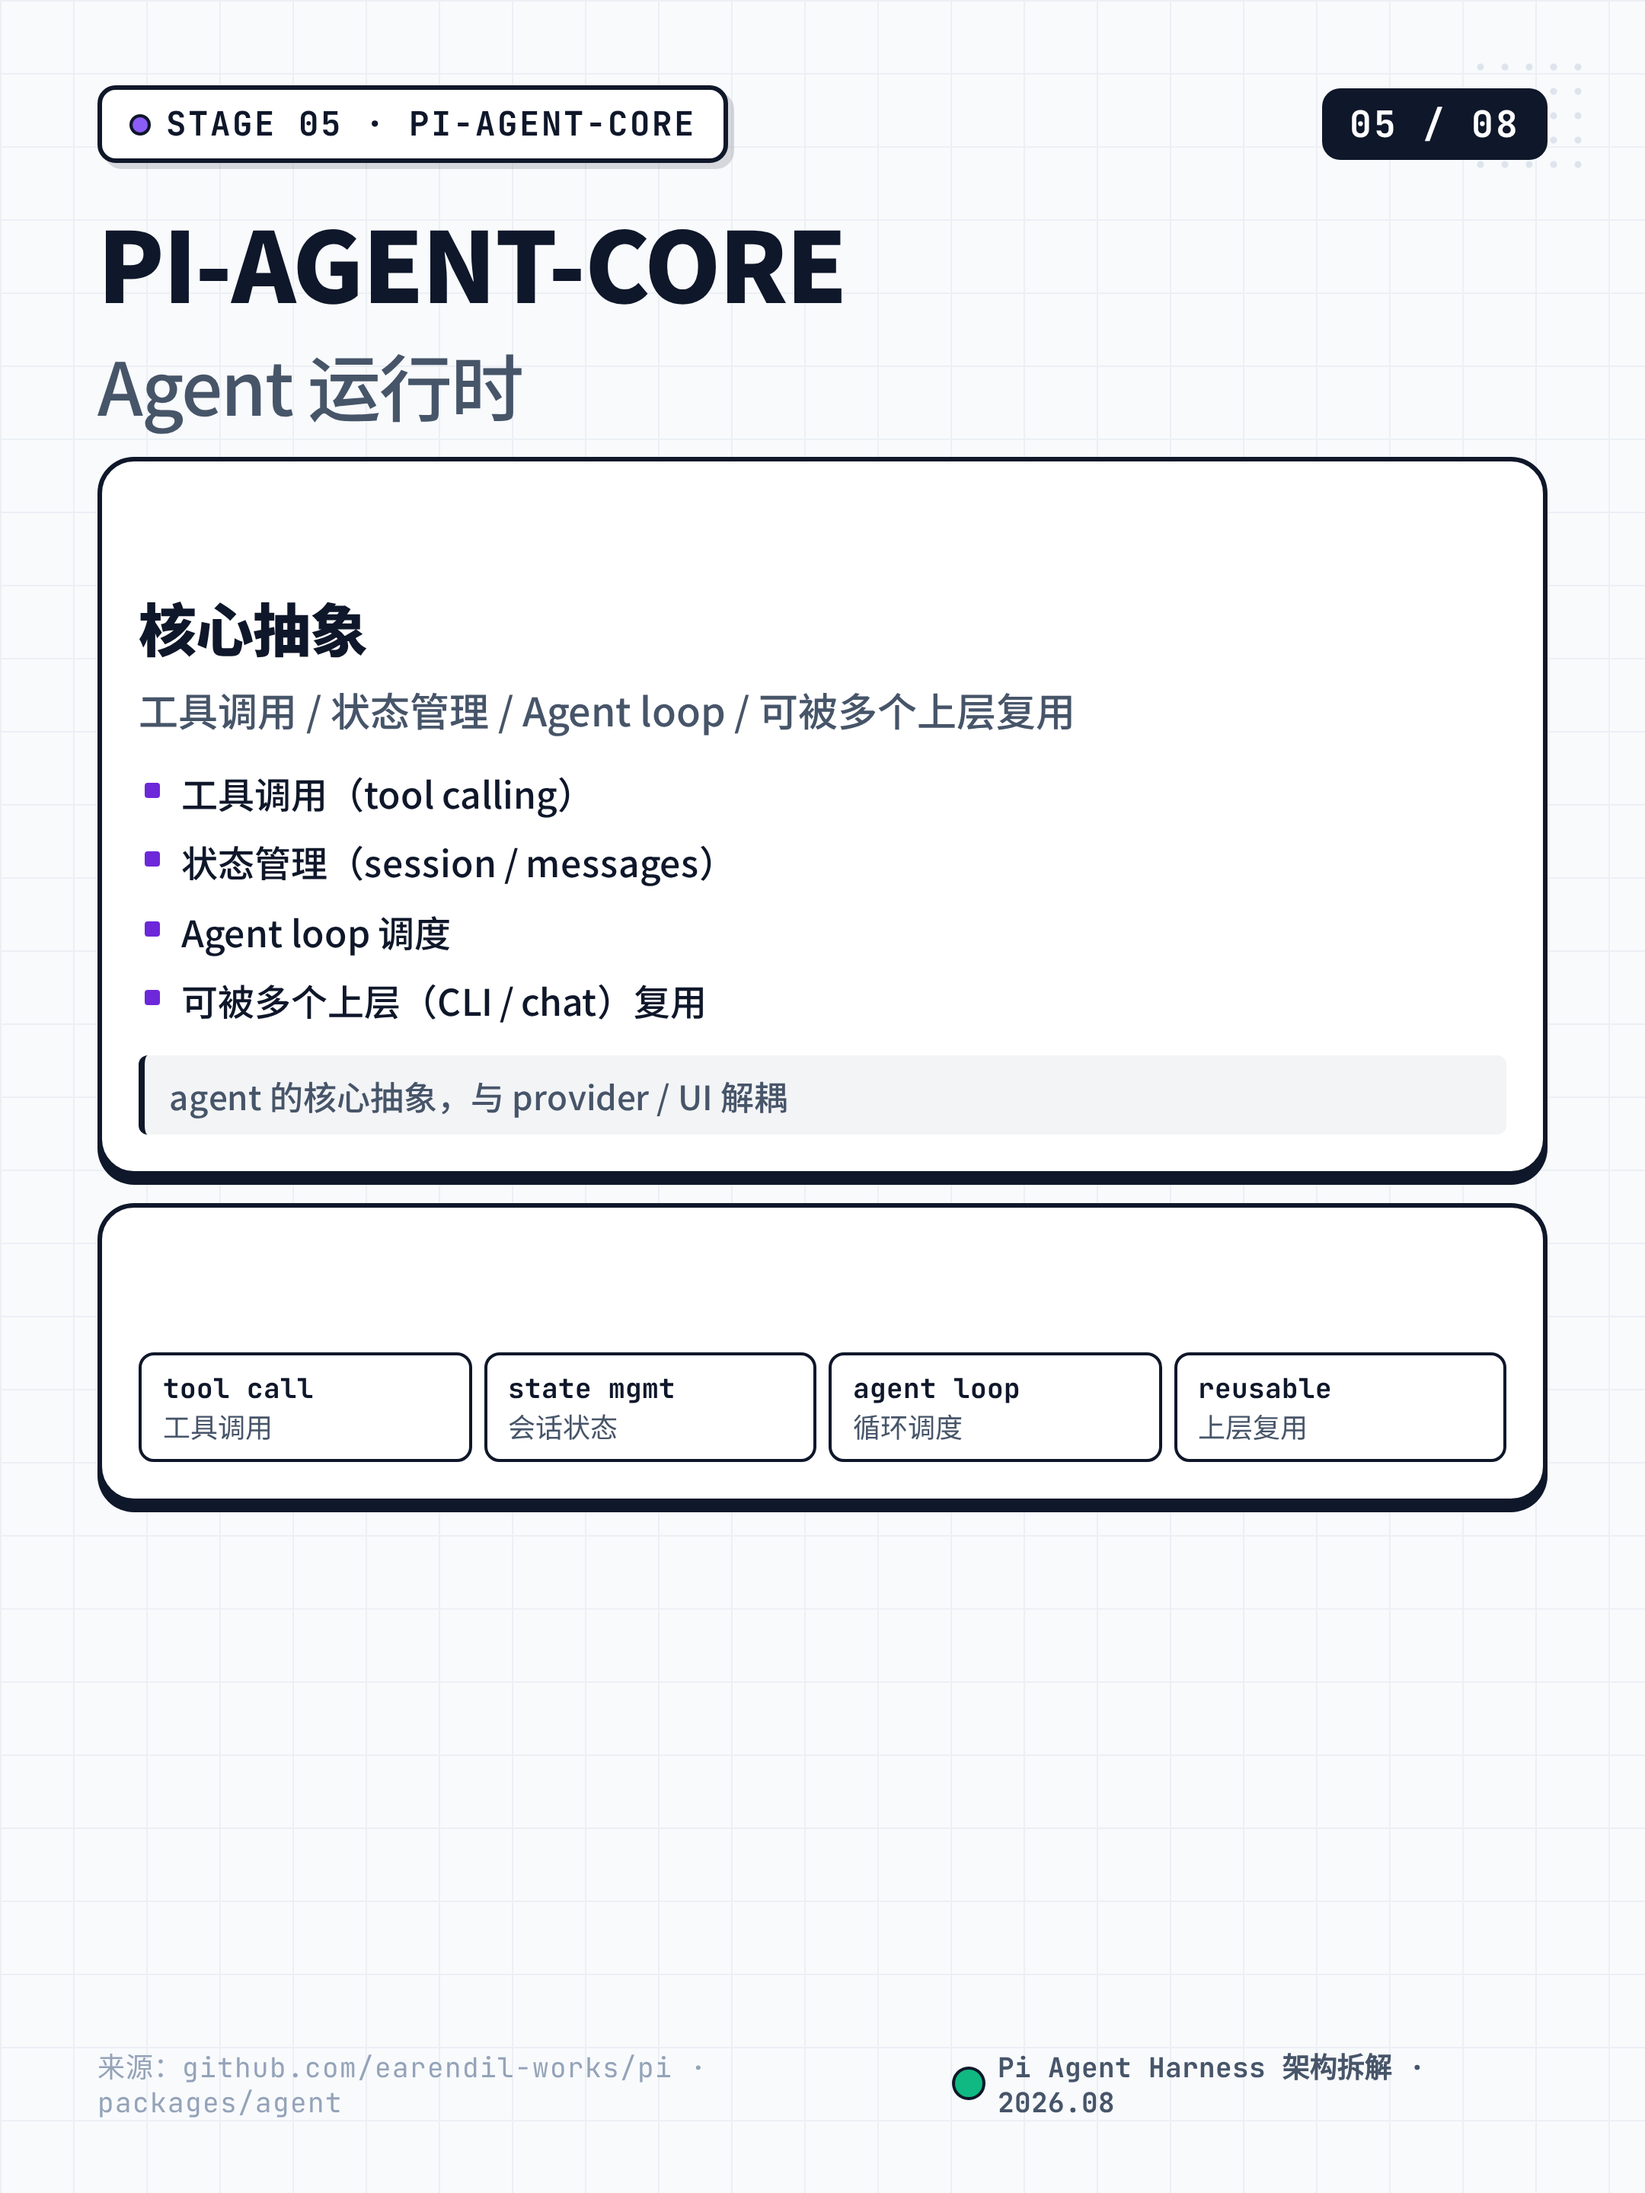
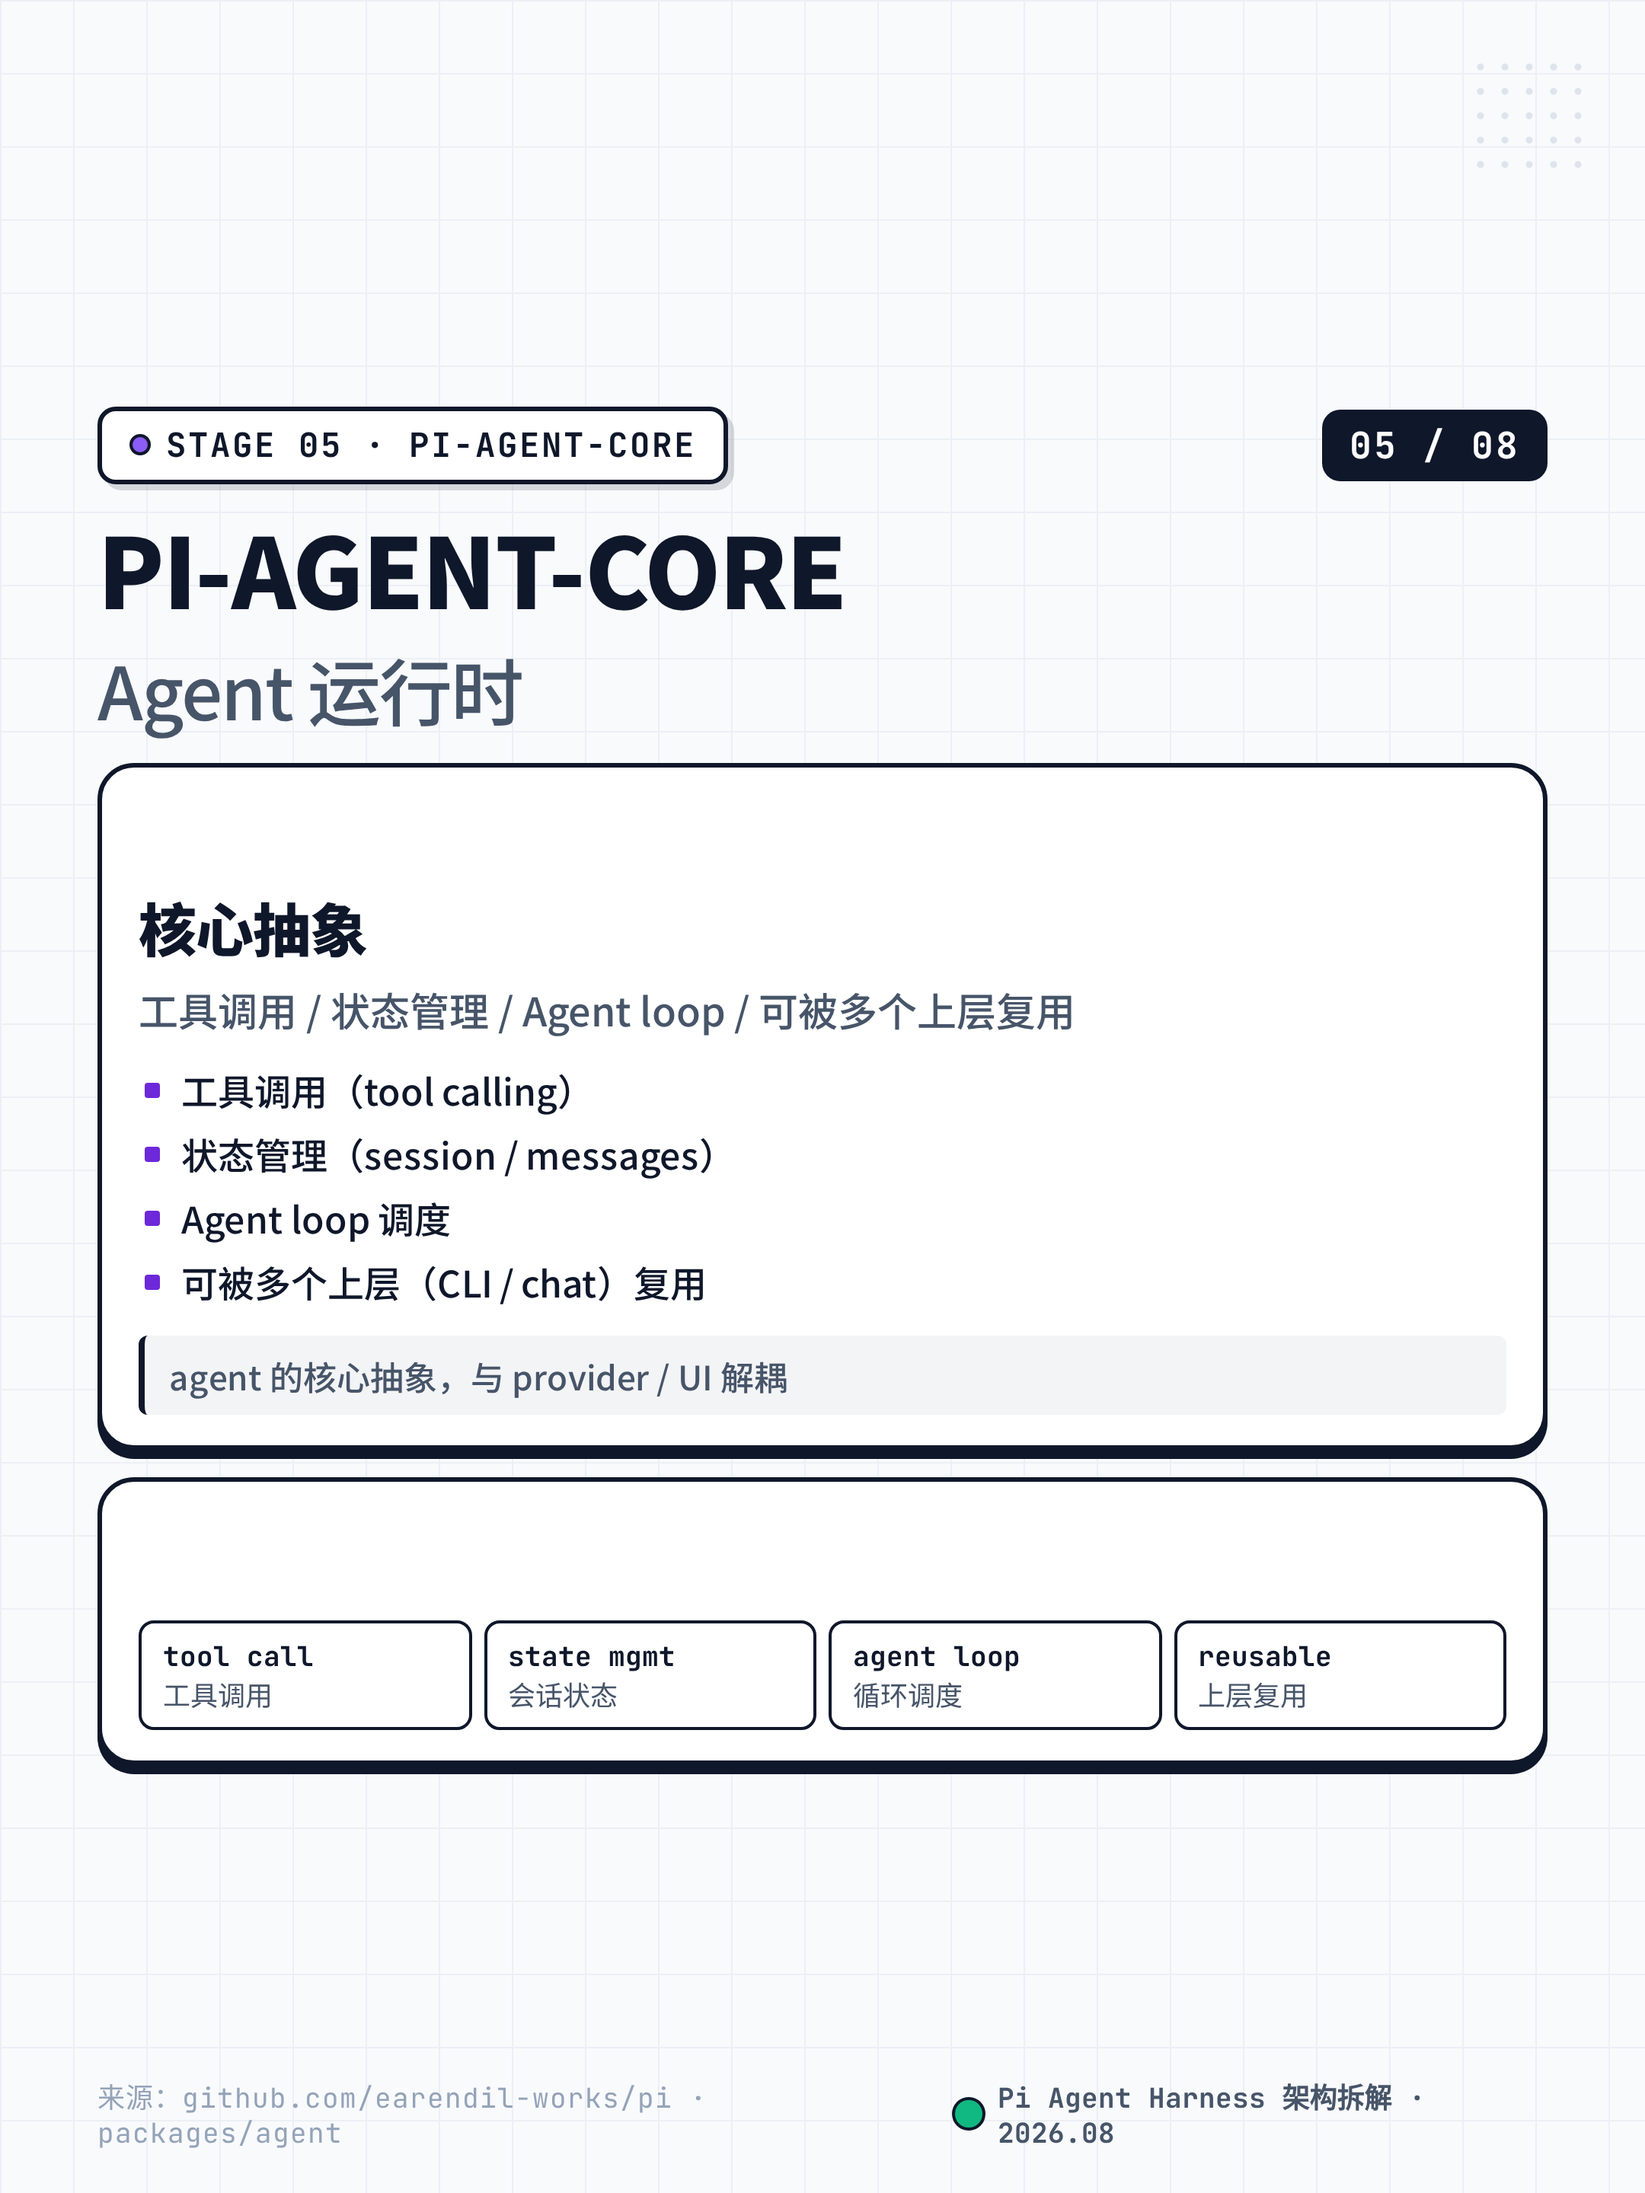
feat(greenbook): 排版紧凑 + P8 改造为「使用三件套」+ README 加快速上手
## 用户反馈（2026-08-07）
- 排版空白太多 → 紧凑 + 居中
- 适当居中 → flex center
- 加入使用方法 → P8 改造 + README 加快速上手

## 改动 1 · base.css 排版紧凑
- .card 加 display: flex + flex-direction: column + justify-content: center
- padding: 56px 64px → 32px 64px
- header margin-bottom: 28px → 18px
- section-card margin-bottom: 18px → 14px
- 整体留白上下平衡，章节卡不再顶部堆叠

## 改动 2 · P8 改造为「使用三件套」卡（OCR Review + pi 两实例）
- 原 P8：讲被拆解项目自己的输出三件套（评审结果 / 失败与预算 / 完整记录 / 三件套各服务一个角色）
- 新 P8：讲「分节提取协议 · 截断根因解药」+ 3 步使用（① 复制模板 / ② 跑协议 / ③ 渲染推送）
- 这样整套 8 张图天然包含「教会读者怎么复用本模板」的能力
- 两个实例同步改造

## 改动 3 · README 精简 + 加居中「快速上手」块
- 新增居中显示的「🚀 快速上手（3 步）」块，3 步完事
- 精简表格、代码块之间的冗余空白行
- 加「8 卡中第 8 张的特殊设计 · 使用三件套」章节
- 「复用沉淀」从 v1 → v2 记录这次改动

## 改动 4 · 清理 card_template_*.png
- render.py 会扫所有 .html，骨架也被渲染 → 无意义产物
- 全部删掉，只保留 card_1~8.png 填充好的实例

## 视觉确认
- OCR Review P3/P5：上下留白平衡，不再堆顶
- OCR Review P8：使用三件套 · 3 步拆任意架构图
- pi P3/P5/P8：同 OCR Review 风格一致

## 文件清单
- 20 files changed, 168 insertions(+), 197 deletions(-)

diff --git a/greenbook-creator/templates/architecture-ocr-greenbook/examples/pi/html/card_8.html b/greenbook-creator/templates/architecture-ocr-greenbook/examples/pi/html/card_8.html
@@ -2,7 +2,7 @@
 <html lang="zh-CN">
 <head>
   <meta charset="UTF-8">
-  <title>Card 8 · DEPLOY TRIO + 收束 · pi</title>
+  <title>Card 8 · 使用三件套 + 收束 · pi</title>
   <link rel="stylesheet" href="../../../html/base.css">
 </head>
 <body>
@@ -10,54 +10,55 @@
     <div class="header">
       <div class="label-tag cyan">
         <span class="dot"></span>
-        <span>STAGE 08 · DEPLOY TRIO</span>
+        <span>STAGE 08 · 使用三件套</span>
       </div>
       <div class="page-num">08 / 08</div>
     </div>
 
-    <h1 class="title-sm">DEPLOY TRIO<br>
-      <span style="font-size:48px;color:var(--ink-2);font-weight:500;">分发三件套</span>
+    <h1 class="title-sm">使用三件套<br>
+      <span style="font-size:48px;color:var(--ink-2);font-weight:500;">3 步拆任意项目文档</span>
     </h1>
 
-    <div class="section-card cyan" style="margin-bottom: 18px;">
-      <div class="band"><span class="num">01</span>KEY POINTS · 关键点</div>
+    <div class="section-card cyan" style="margin-bottom: 14px;">
+      <div class="band"><span class="num">01</span>分节提取协议 · 截断根因解药</div>
       <div class="body">
-        <h3>三件套各服务一个阶段</h3>
-        <div class="zh">开发 → 离线构建 → 公开 session</div>
+        <h3>永不截断 · 可重试</h3>
+        <div class="zh">README + AGENTS.md 也能拆，无截断</div>
         <ul class="bullet-list">
-          <li>安装：npm i -g 或 ./pi-test.sh</li>
-          <li>构建：npm run build:offline（离线模型数据）</li>
-          <li>分享：pi-share-hf → Hugging Face</li>
+          <li>Stage 1 · 按章节 / 标题 / 代码块切分文档（≤12 段）</li>
+          <li>Stage 2 · 逐段抽取要点（每段 ≤300 tokens）</li>
+          <li>Stage 3 · 校验字段长度 / 数量，缺哪个只重跑那段</li>
+          <li>Stage 4 · 合并为 YAML 数据文件</li>
         </ul>
-        <div class="details">三件套各覆盖一个阶段：开发 → 离线构建 → 公开 session</div>
+        <div class="details">6 段总和 ≤ 1800 tokens，远低于模型上限，永不截断</div>
       </div>
     </div>
 
-    <div style="margin-bottom: 16px;">
-      <div class="mono" style="margin-bottom: 10px;">DEPLOY TRIO · 分发三件套</div>
+    <div style="margin-bottom: 14px;">
+      <div class="mono" style="margin-bottom: 10px;">使用三件套 · 3 步复制本模板</div>
       <div class="trio">
         <div class="cell blue">
-          <div class="lab">安装</div>
-          <div class="sub">npm i -g / pi-test.sh</div>
+          <div class="lab">① 复制模板</div>
+          <div class="sub">cp -r 骨架 → 改 YAML</div>
         </div>
         <div class="cell orange">
-          <div class="lab">构建</div>
-          <div class="sub">build:offline + standalone</div>
+          <div class="lab">② 跑协议</div>
+          <div class="sub">Stage 1 → Stage 2 → 校验</div>
         </div>
         <div class="cell purple">
-          <div class="lab">分享</div>
-          <div class="sub">pi-share-hf → HuggingFace</div>
+          <div class="lab">③ 渲染推送</div>
+          <div class="sub">render.py → QQ bot</div>
         </div>
       </div>
     </div>
 
     <div class="closing">
       <span class="dot"></span>
-      <span class="text"><b>5 包 monorepo · 终端到模型全栈</b> · 模板验证：README + AGENTS.md 也能拆，无截断</span>
+      <span class="text"><b>5 包 monorepo · 终端到模型全栈</b> · 本卡为「使用方法」卡，替换 YAML + HTML 即可复用本模板拆任意项目</span>
     </div>
 
     <div class="footer">
-      <div class="source">来源：github.com/earendil-works/pi · DEPLOY TRIO</div>
+      <div class="source">来源：github.com/earendil-works/pi · 使用三件套</div>
       <div class="label"><span class="icon"></span>Pi Agent Harness 架构拆解 · 2026.08</div>
     </div>
   </div>

diff --git a/greenbook-creator/templates/architecture-ocr-greenbook/html/card_8.html b/greenbook-creator/templates/architecture-ocr-greenbook/html/card_8.html
@@ -2,7 +2,7 @@
 <html lang="zh-CN">
 <head>
   <meta charset="UTF-8">
-  <title>Card 8 · OUTPUT TRIO + 收束 · OCR Review</title>
+  <title>Card 8 · 使用三件套 + 收束 · OCR Review</title>
   <link rel="stylesheet" href="base.css">
 </head>
 <body>
@@ -10,54 +10,55 @@
     <div class="header">
       <div class="label-tag cyan">
         <span class="dot"></span>
-        <span>STAGE 08 · OUTPUT TRIO</span>
+        <span>STAGE 08 · 使用三件套</span>
       </div>
       <div class="page-num">08 / 08</div>
     </div>
 
-    <h1 class="title-sm">OUTPUT TRIO<br>
-      <span style="font-size:48px;color:var(--ink-2);font-weight:500;">输出三件套</span>
+    <h1 class="title-sm">使用三件套<br>
+      <span style="font-size:48px;color:var(--ink-2);font-weight:500;">3 步拆任意架构图</span>
     </h1>
 
-    <div class="section-card cyan" style="margin-bottom: 18px;">
-      <div class="band"><span class="num">01</span>KEY POINTS · 关键点</div>
+    <div class="section-card cyan" style="margin-bottom: 14px;">
+      <div class="band"><span class="num">01</span>分节提取协议 · 截断根因解药</div>
       <div class="body">
-        <h3>三件套各服务一个角色</h3>
-        <div class="zh">用户读评审结果 · 运维盯预算 · 复盘查完整记录</div>
+        <h3>永不截断 · 可重试</h3>
+        <div class="zh">不让 LLM 一次描述整张图，而是逐段独立提取</div>
         <ul class="bullet-list">
-          <li>Text / JSON：评审结果给用户读</li>
-          <li>Warnings / Budget：失败与预算状态给运维盯</li>
-          <li>Session JSONL：完整运行记录给复盘查</li>
+          <li>Stage 1 · 枚举所有视觉区块（≤12 项 JSON）</li>
+          <li>Stage 2 · 逐区块独立提取（每段 ≤300 tokens）</li>
+          <li>Stage 3 · 校验字段长度 / 数量，缺哪个只重跑那段</li>
+          <li>Stage 4 · 合并为 YAML 数据文件</li>
         </ul>
-        <div class="details">三个输出各服务一个角色，互不重叠</div>
+        <div class="details">6 段总和 ≤ 1800 tokens，远低于模型上限，永不截断</div>
       </div>
     </div>
 
-    <div style="margin-bottom: 16px;">
-      <div class="mono" style="margin-bottom: 10px;">OUTPUT TRIO · 输出三件套</div>
+    <div style="margin-bottom: 14px;">
+      <div class="mono" style="margin-bottom: 10px;">使用三件套 · 3 步复制本模板</div>
       <div class="trio">
         <div class="cell blue">
-          <div class="lab">评审结果</div>
-          <div class="sub">Text / JSON</div>
+          <div class="lab">① 复制模板</div>
+          <div class="sub">cp -r 骨架 → 改 YAML</div>
         </div>
         <div class="cell orange">
-          <div class="lab">失败与预算</div>
-          <div class="sub">Warnings / Budget</div>
+          <div class="lab">② 跑协议</div>
+          <div class="sub">Stage 1 → Stage 2 → 校验</div>
         </div>
         <div class="cell purple">
-          <div class="lab">完整记录</div>
-          <div class="sub">Session JSONL</div>
+          <div class="lab">③ 渲染推送</div>
+          <div class="sub">render.py → QQ bot</div>
         </div>
       </div>
     </div>
 
     <div class="closing">
       <span class="dot"></span>
-      <span class="text"><b>分节提取协议 · 无截断 · 可重试</b> · 原图描述卡在 "≥50 lines"，本方案 6 节字段全部完整 ✓</span>
+      <span class="text"><b>分节提取协议 · 无截断 · 可重试</b> · 本卡为「使用方法」卡，替换内容即可复用本模板拆任意架构图</span>
     </div>
 
     <div class="footer">
-      <div class="source">来源：架构图 · OUTPUT TRIO</div>
+      <div class="source">来源：架构图 · 使用三件套</div>
       <div class="label"><span class="icon"></span>OCR Review 架构拆解 · 2026.08</div>
     </div>
   </div>

diff --git a/greenbook-creator/templates/architecture-ocr-greenbook/html/base.css b/greenbook-creator/templates/architecture-ocr-greenbook/html/base.css
@@ -71,8 +71,11 @@ body::after {
   position: relative;
   width: 100%;
   height: 100%;
-  padding: 56px 64px;
+  padding: 32px 64px 32px;
   z-index: 1;
+  display: flex;
+  flex-direction: column;
+  justify-content: center;        /* 整体垂直居中：不再顶部堆叠 */
 }
 
 /* ============ Header ============ */
@@ -80,7 +83,8 @@ body::after {
   display: flex;
   justify-content: space-between;
   align-items: center;
-  margin-bottom: 28px;
+  margin-bottom: 18px;
+  flex-shrink: 0;
 }
 
 .label-tag {
@@ -153,10 +157,10 @@ body::after {
 .title {
   font-size: 86px;
   font-weight: 900;
-  line-height: 1.1;
+  line-height: 1.05;
   letter-spacing: -2px;
   color: var(--ink);
-  margin-bottom: 16px;
+  margin-bottom: 12px;
 }
 
 .title .hl {
@@ -186,9 +190,9 @@ body::after {
 .subtitle {
   font-size: 30px;
   font-weight: 500;
-  line-height: 1.5;
+  line-height: 1.4;
   color: var(--ink-2);
-  margin-bottom: 32px;
+  margin-bottom: 18px;
   max-width: 920px;
 }
 
@@ -199,7 +203,8 @@ body::after {
   overflow: hidden;
   box-shadow: var(--shadow-hard);
   background: var(--bg-card);
-  margin-bottom: 18px;
+  margin-bottom: 14px;
+  flex-shrink: 0;
 }
 
 .section-card .band {
@@ -235,7 +240,7 @@ body::after {
 }
 
 .section-card .body {
-  padding: 20px 24px 24px;
+  padding: 16px 24px 20px;
 }
 
 .section-card .body h3 {
@@ -260,8 +265,8 @@ body::after {
 
 .section-card .body ul li {
   font-size: 24px;
-  line-height: 1.55;
-  padding: 4px 0 4px 28px;
+  line-height: 1.5;
+  padding: 3px 0 3px 28px;
   position: relative;
   color: var(--ink);
   font-weight: 500;
@@ -492,7 +497,7 @@ body::after {
 /* ============ Footer ============ */
 .footer {
   position: absolute;
-  bottom: 48px;
+  bottom: 28px;
   left: 64px;
   right: 64px;
   display: flex;
